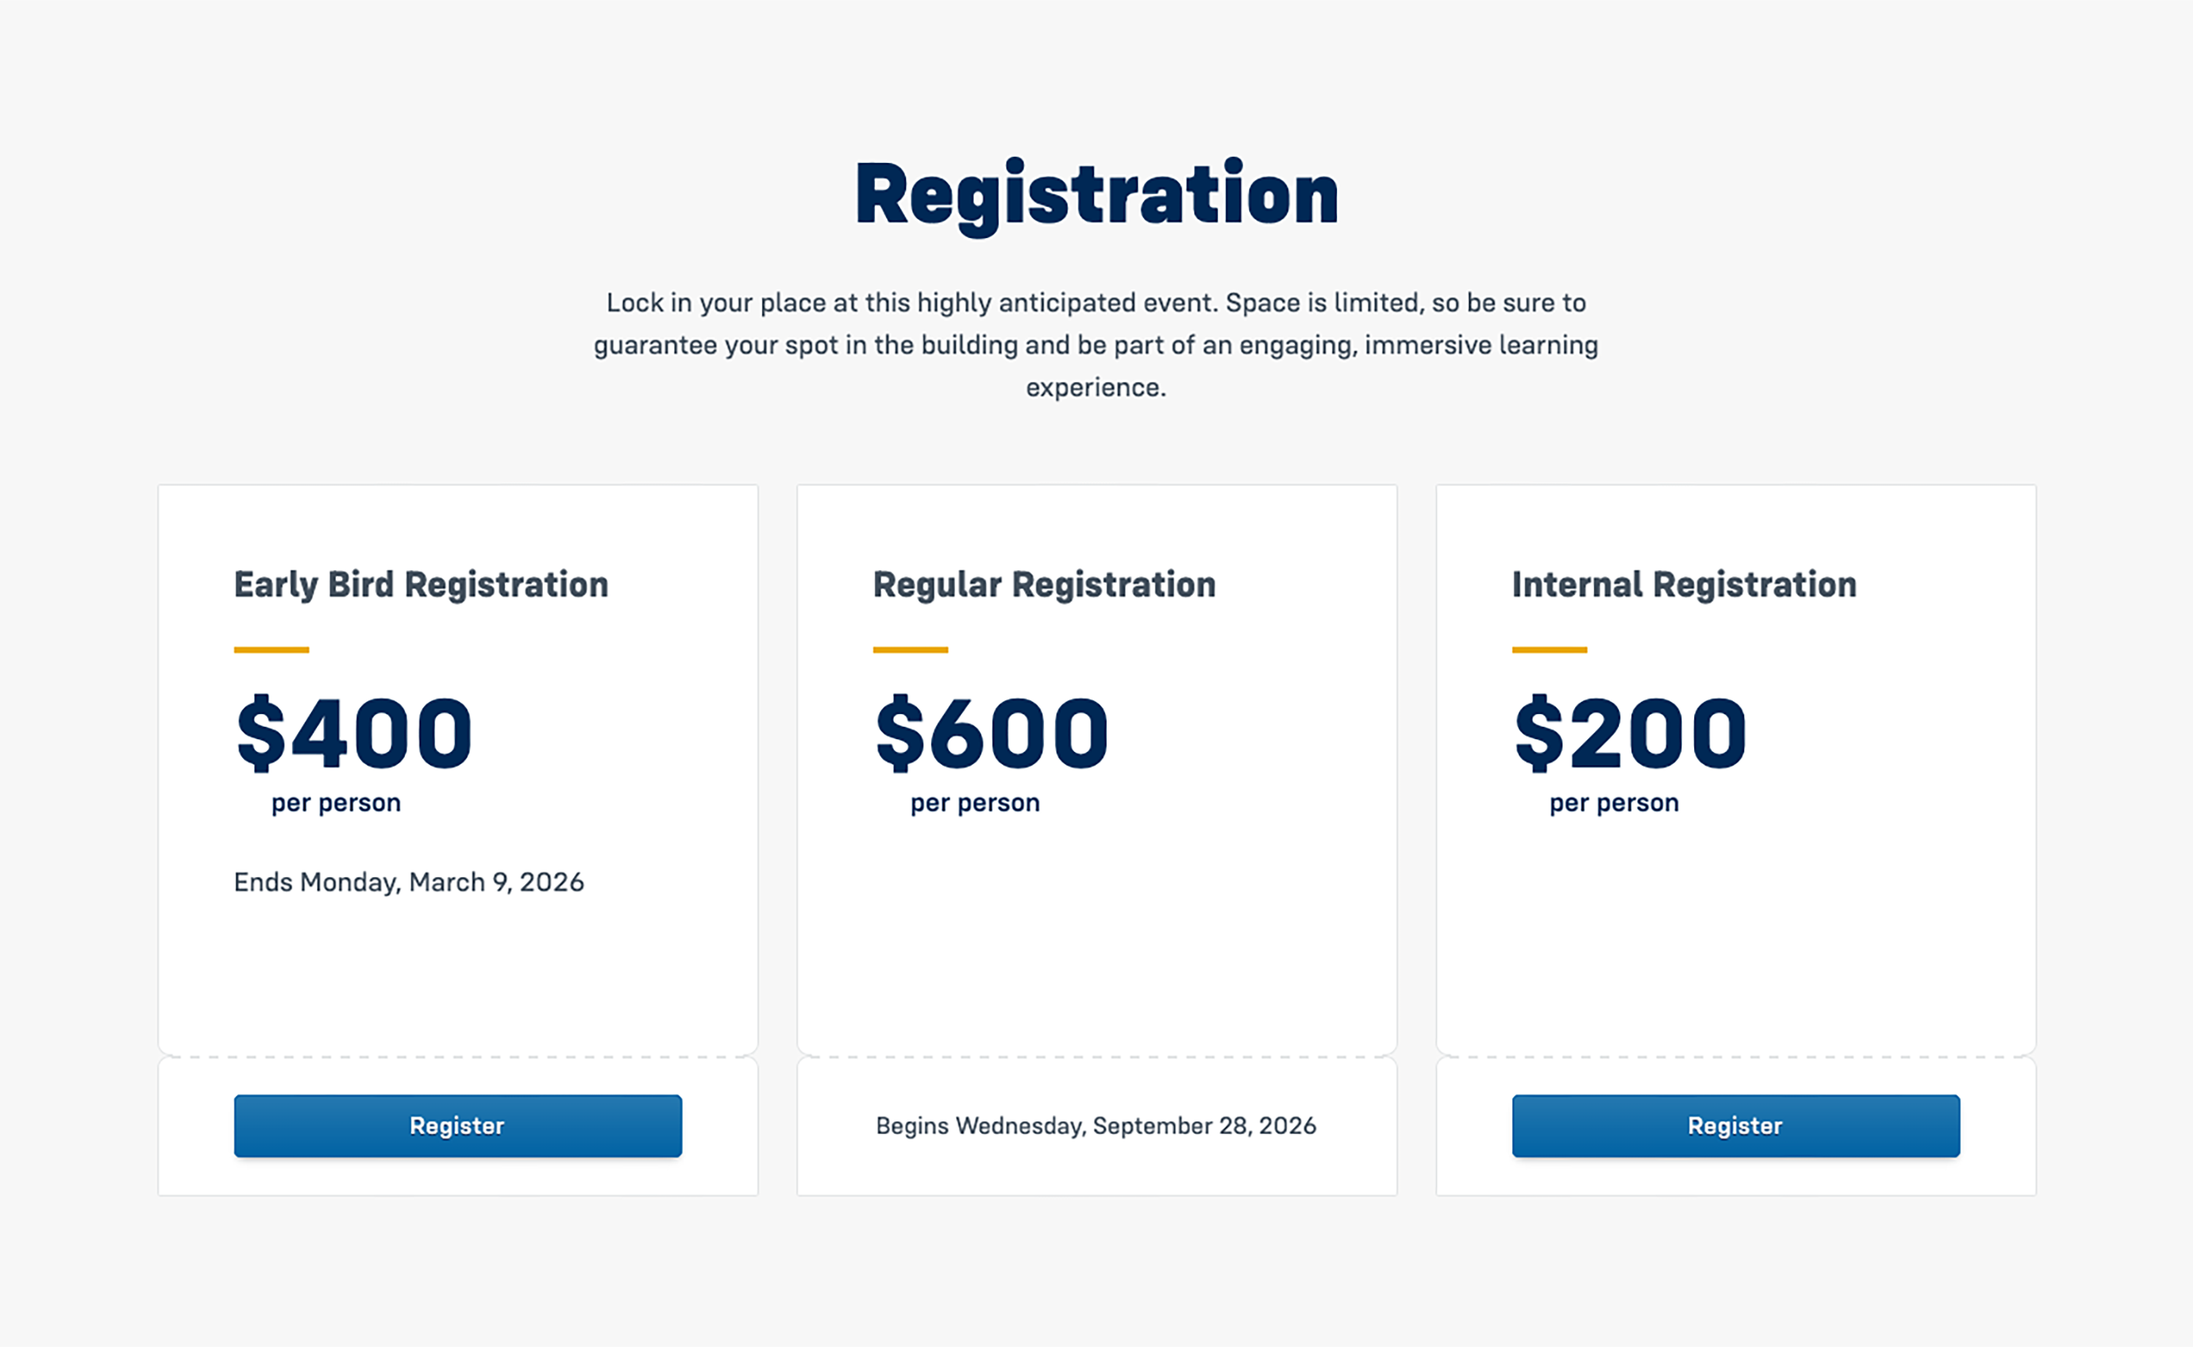
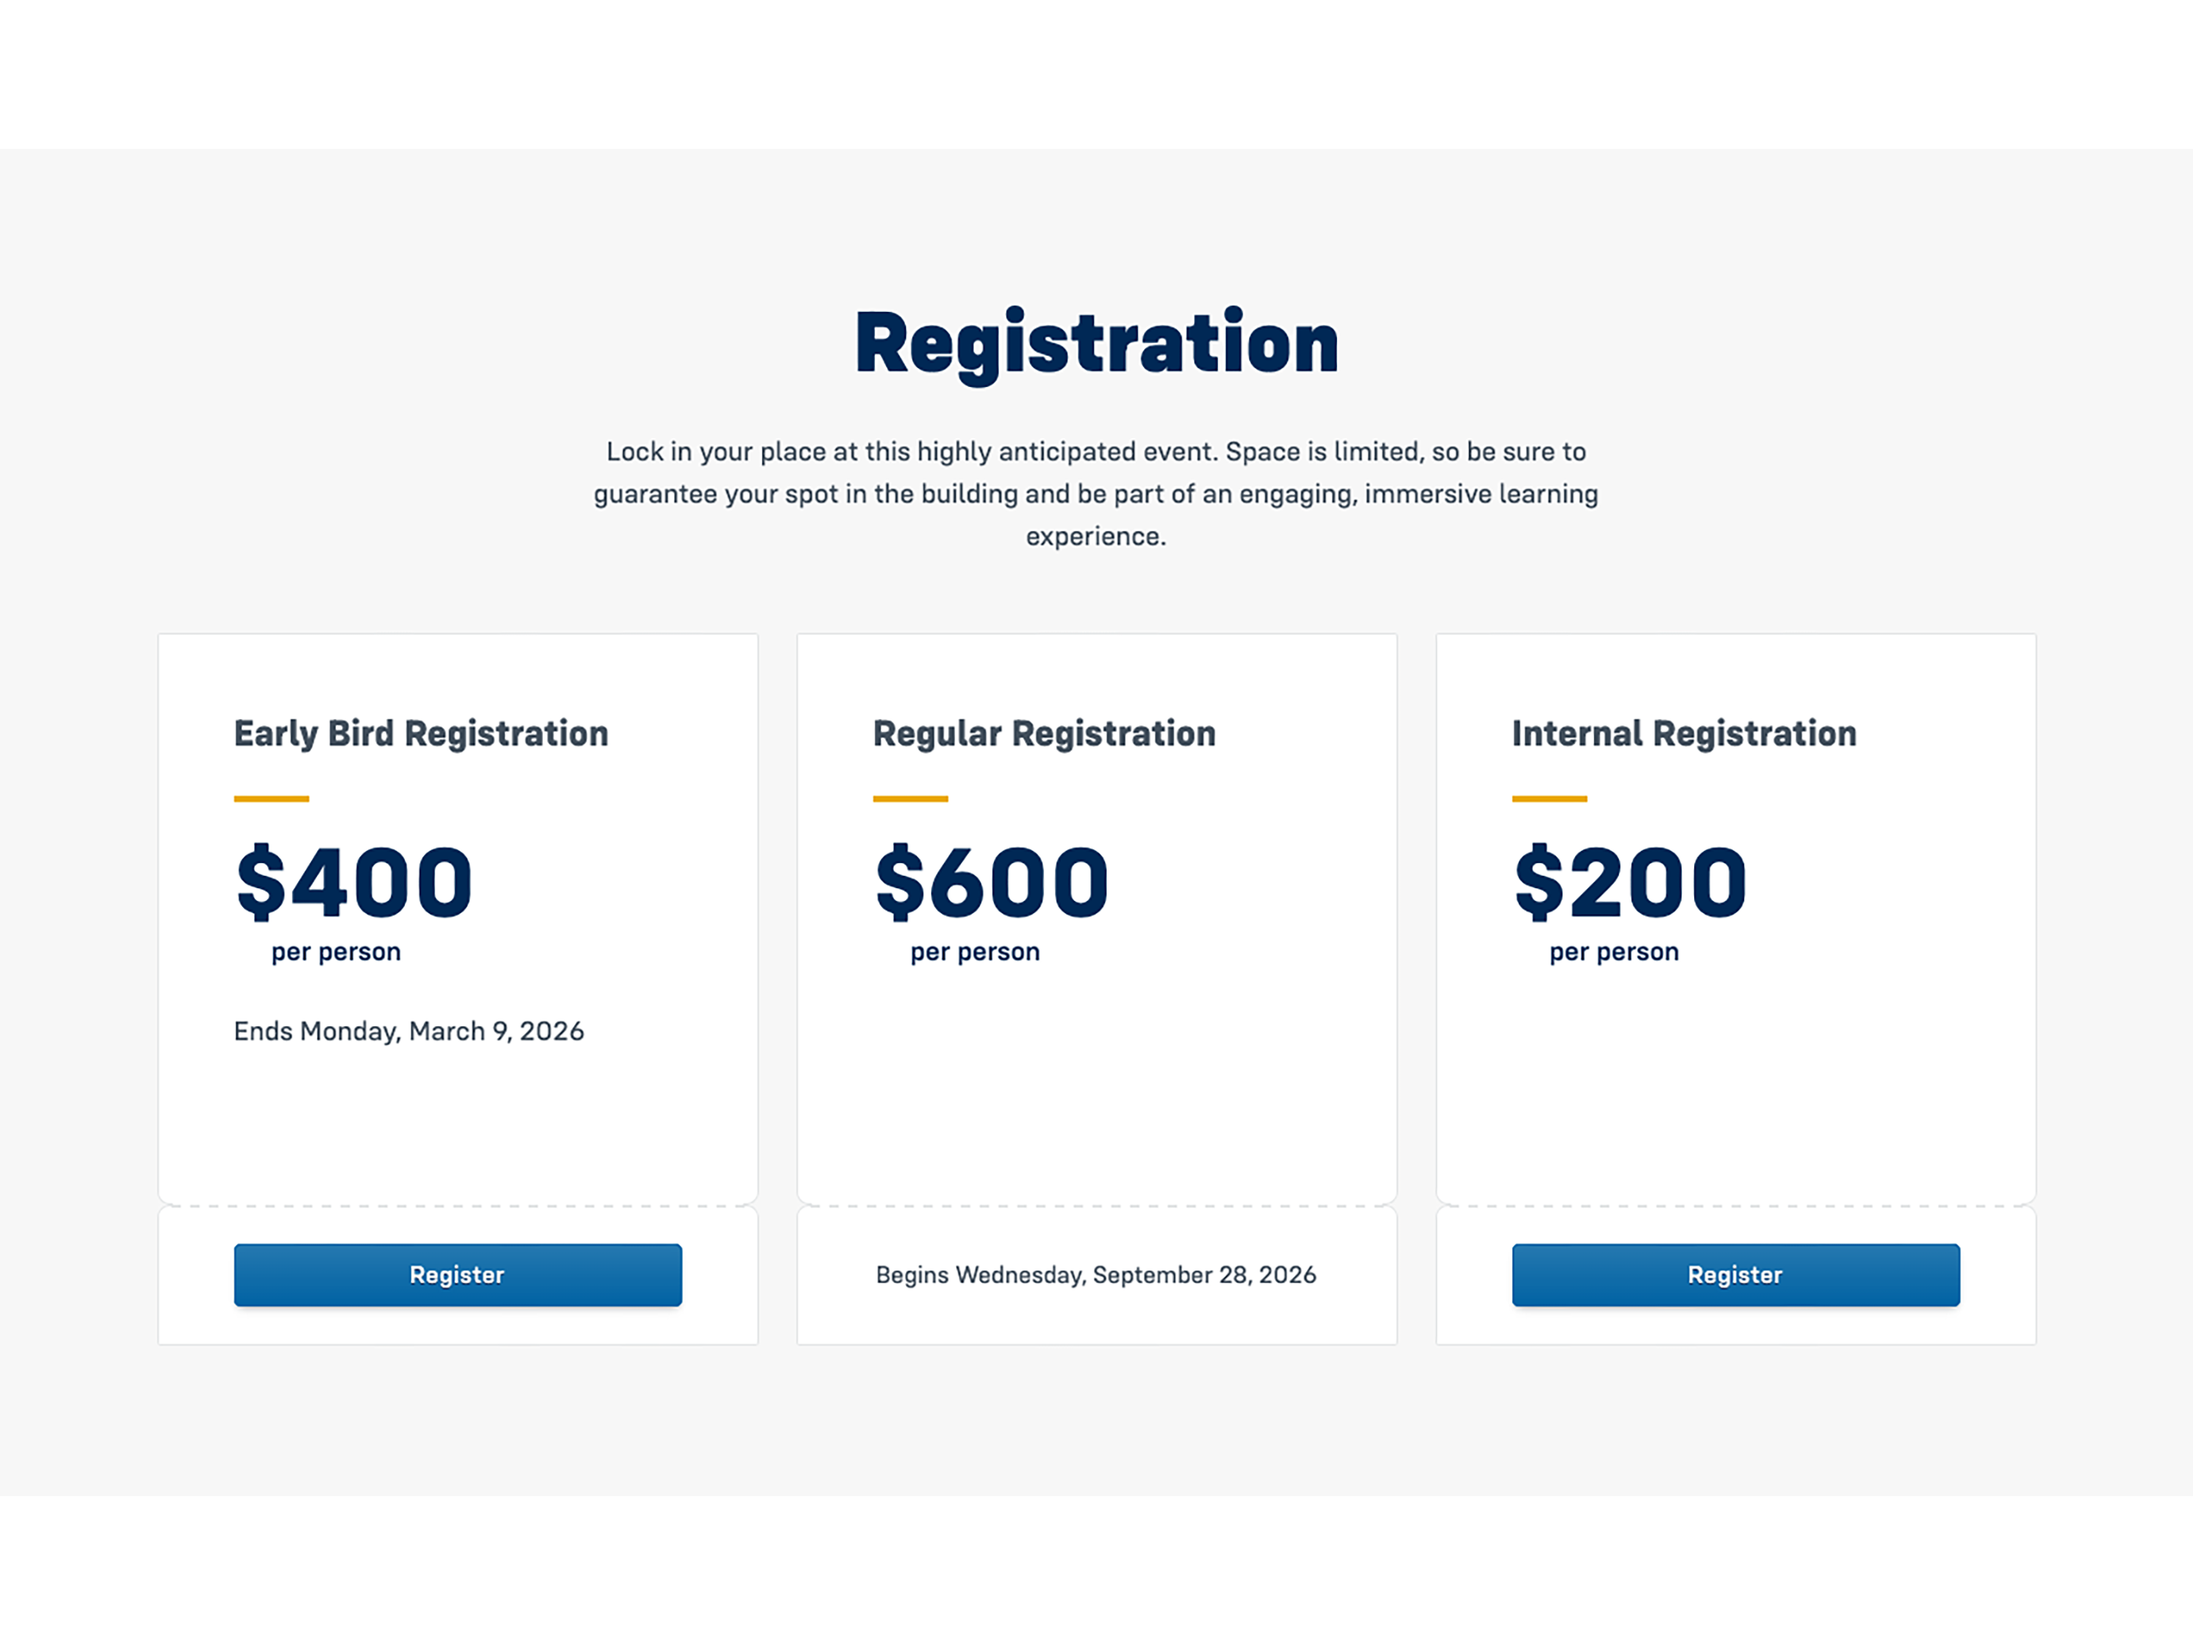
Updating the WVU Health Events images

diff --git a/assets/css/style.css b/assets/css/style.css
@@ -42,6 +42,7 @@
     /* --de-post-box-shadow-hover-color: rgb(from var(--de-black) r g b / 0.05); */
     --de-post-soft-shadow-color: rgb(0 0 0 / 0.1);
     --de-post-sharp-shadow-color: rgb(0 0 0 / 0.15);
+    --de-figure-bg-color: rgb(255 255 255 / 0.35);
 
     @media (prefers-color-scheme: dark) {
         --de-body-bg: var(--de-black);
@@ -57,6 +58,7 @@
         /* --de-post-box-shadow-hover-color: rgb(from black r g b / 0.15); */
         --de-post-soft-shadow-color: rgb(0 0 0 / 0.2);
         --de-post-sharp-shadow-color: rgb(0 0 0 / 0.3);
+        --de-figure-bg-color: rgb(255 255 255 / 0.025);
     }
 }
 
@@ -217,6 +219,7 @@ img, video {
 
     display: grid;
     grid-template-columns: [full-start] minmax(var(--padding-inline), 1fr) [breakout-start] minmax(0, var(--breakout-size)) [content-start] min(100% - (var(--padding-inline) * 2), var(--content-max-width)) [content-end] minmax(0, var(--breakout-size)) [breakout-end] minmax(var(--padding-inline), 1fr) [full-end];
+    overflow-x: clip;
 
     & > * {
         grid-column: content;
@@ -553,7 +556,7 @@ nav {
     img, video {
         width: 100%; 
         height: auto;
-        /* border: 1px solid var(--de-border-color); */
+        background-color: var(--de-figure-bg-color);
     }
 
     figcaption {

diff --git a/_posts/2026-02-22-wvu-health-events.md b/_posts/2026-02-22-wvu-health-events.md
@@ -36,4 +36,4 @@ Stay tuned for more shots!
 
 {% figure image="wvu-health-events/wvu-health-event--desktop.png" caption="" breakout="true" %}
 
-{% figure image="wvu-health-events/wvu-health-event-registration.png" caption="" breakout="true" %}
+{% figure image="wvu-health-events/wvu-health-registration--desktop.png" caption="" breakout="true" %}
